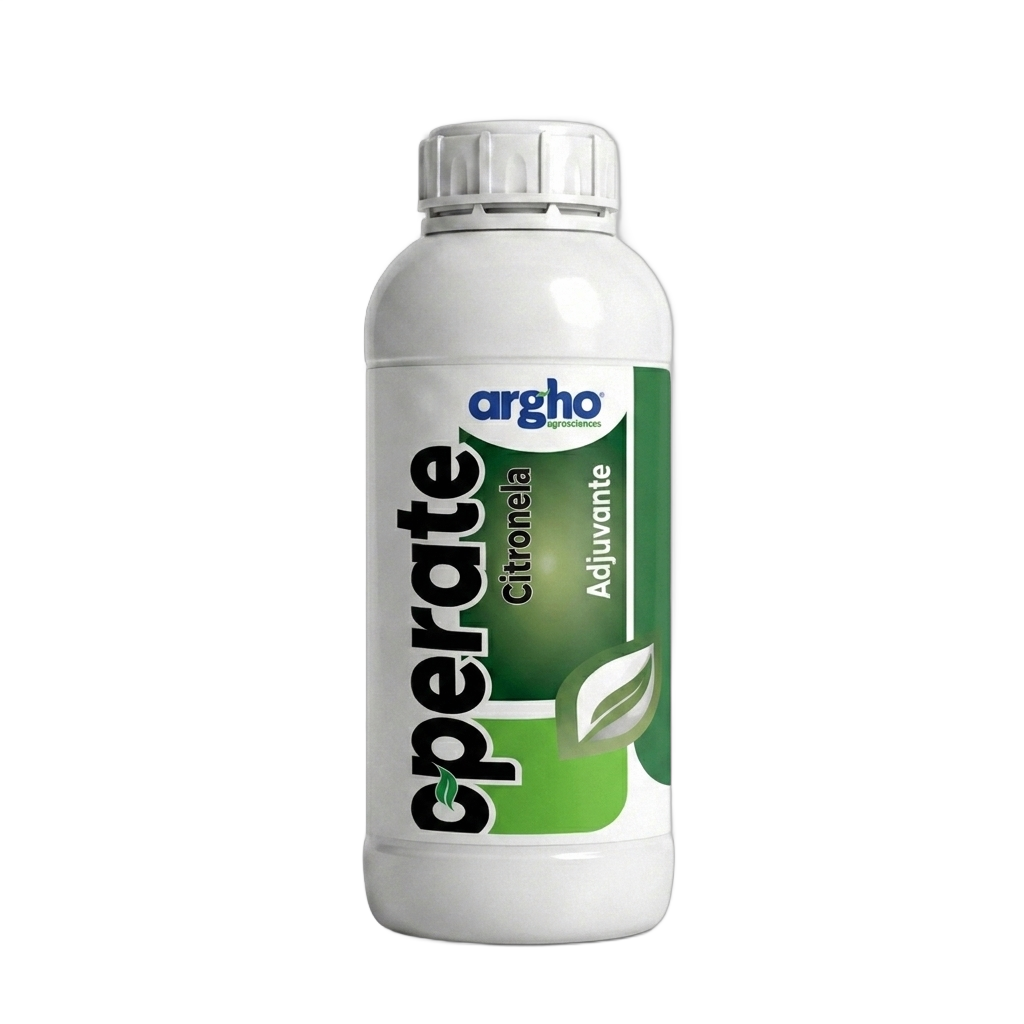
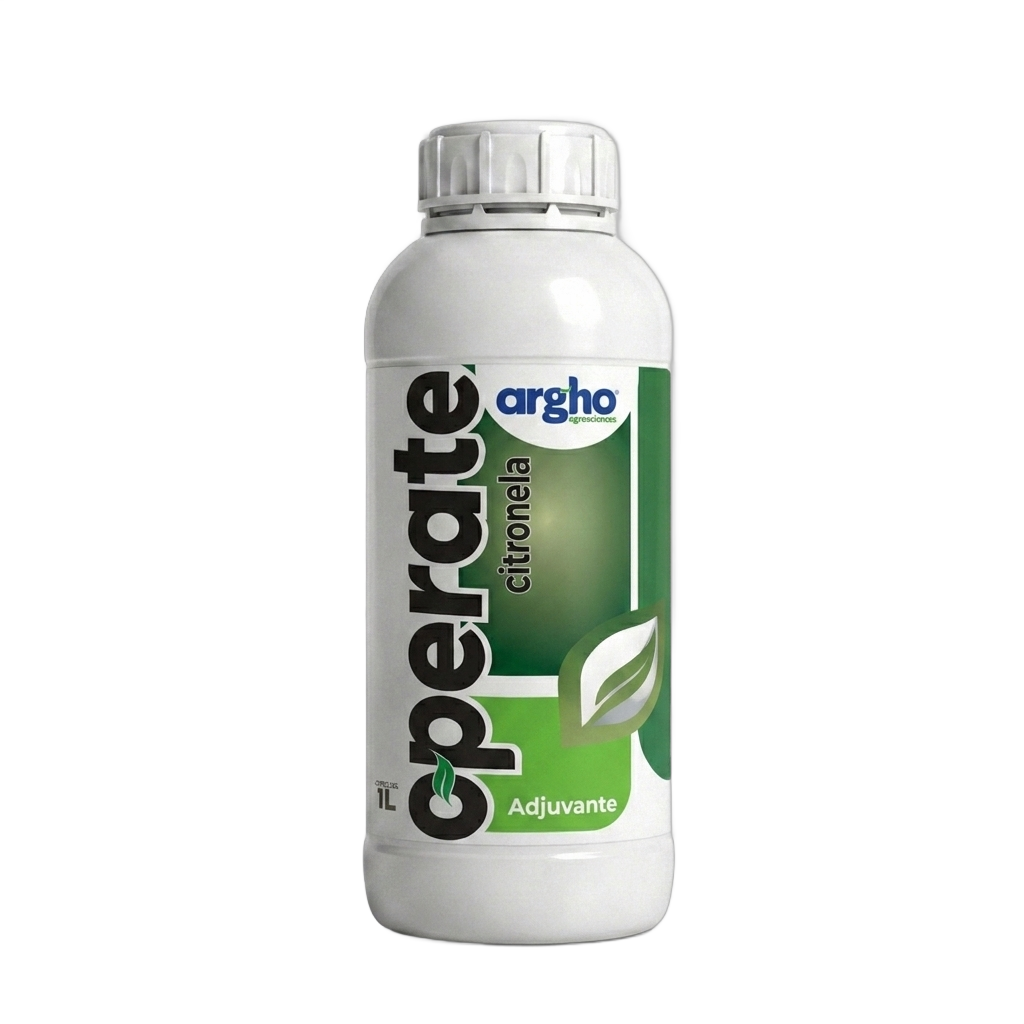
feat(site): Operate consistente + qualidade de imagem + nav mobile
- #3: recria os 4 mockups Operate (plus/citronela/orange/4em1) no padrao unico
  (Nano Banana Pro, fieis aos rotulos reais NOVOS MOCKUPS, aprovados pelo Wilson);
  rembg -> transparente, masters atualizados
- #1: quality={95/90} nos <Image> de produto (era default 75 lossy -> embalagens
  perdiam nitidez ao serem servidas pelo next/image)
- #4: nav mobile — esconde links secundarios <640px, encolhe logo, padding menor,
  body overflow-x hidden (corrigia corte do 'Ver catalogo' e do canto no celular)

Changed region(s): [[0.3438, 0.3438, 0.6562, 0.8438]]

diff --git a/apps/website/src/app/globals.css b/apps/website/src/app/globals.css
@@ -445,6 +445,31 @@ a {
   }
 }
 
+/* ---- Nav mobile: evita corte do CTA "Ver catálogo" (logo + CTA only) ---- */
+@media (max-width: 640px) {
+  .nav-link-secondary {
+    display: none !important;
+  }
+  .nav-logo-img {
+    width: 156px !important;
+    height: auto !important;
+  }
+}
+@media (max-width: 380px) {
+  .nav-logo-img {
+    width: 140px !important;
+  }
+  nav {
+    padding-left: 12px !important;
+    padding-right: 12px !important;
+  }
+}
+
+/* Safety: sem overflow horizontal no mobile (nav fixed fica fora do flow do main) */
+body {
+  overflow-x: hidden;
+}
+
 /* ========================================================================
    RESPONSIVO TABLET (769-1024px) — leves ajustes pra evitar quebra
    intermediaria

diff --git a/apps/website/src/components/nav.tsx b/apps/website/src/components/nav.tsx
@@ -39,6 +39,7 @@ export function Nav() {
         <Image
           src="/argho-logo-color.png"
           alt="Argho Agrosciences"
+          className="nav-logo-img"
           width={196}
           height={52}
           style={{ objectFit: 'contain', objectPosition: 'left center' }}
@@ -55,6 +56,7 @@ export function Nav() {
           <Link
             key={href}
             href={href}
+            className="nav-link-secondary"
             style={{
               fontFamily: 'var(--font-body)',
               fontSize: '0.875rem',

diff --git a/apps/website/src/app/produtos/page.tsx b/apps/website/src/app/produtos/page.tsx
@@ -477,6 +477,7 @@ export default async function ProdutosPage({ searchParams }: PageProps) {
                         alt={product.name}
                         width={160}
                         height={160}
+                        quality={90}
                         style={{
                           objectFit: 'contain',
                           objectPosition: 'center',

diff --git a/apps/website/src/app/produtos/[slug]/page.tsx b/apps/website/src/app/produtos/[slug]/page.tsx
@@ -1042,6 +1042,7 @@ export default async function ProductPage({ params }: PageProps) {
                 width={500}
                 height={680}
                 priority
+                quality={95}
                 style={{
                   width: 'auto',
                   height: 'auto',

diff --git a/apps/website/src/app/page.tsx b/apps/website/src/app/page.tsx
@@ -2349,6 +2349,7 @@ function Spotlight({
                 alt={imageAlt}
                 width={500}
                 height={750}
+                quality={95}
                 style={{
                   width: 'auto',
                   height: '100%',
